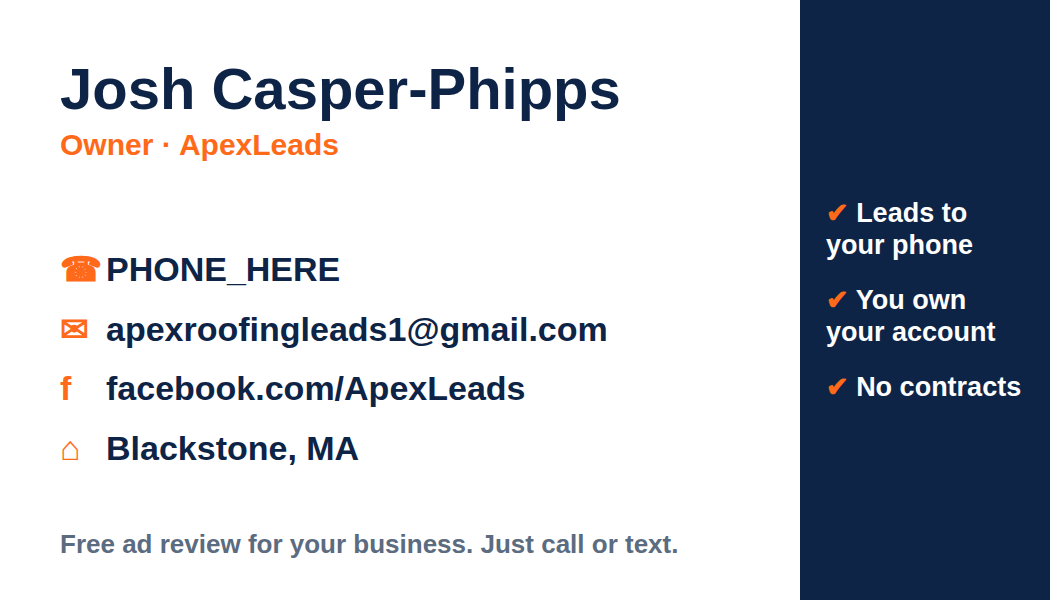
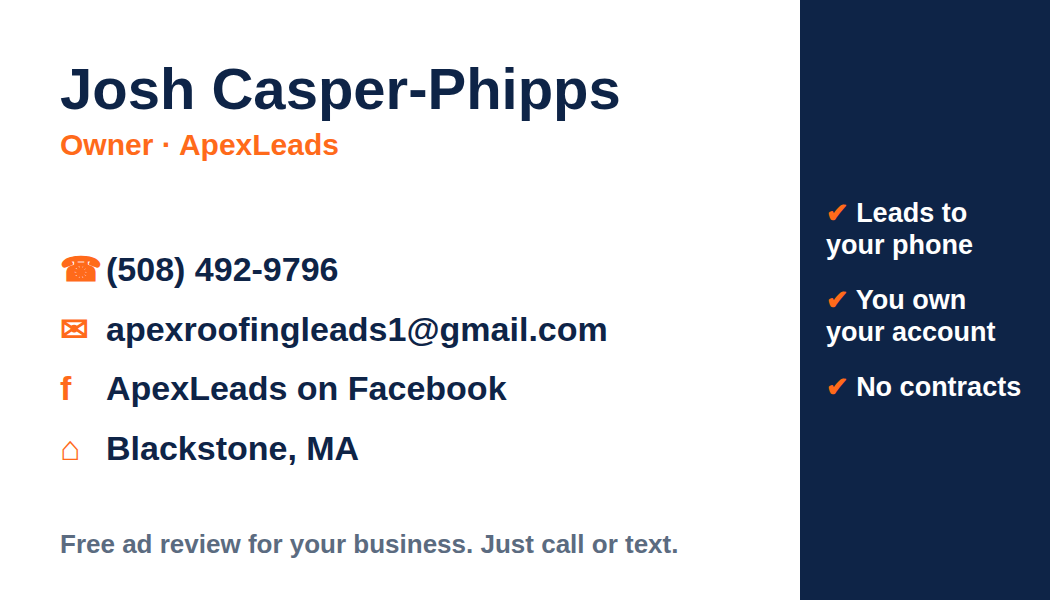
Add business phone to cards, website, service sheet and kit docs
Claude-Session: https://claude.ai/code/session_01QZNmoLFMQXhEVxVhtHLNXP

Changed region(s): [[0.0914, 0.63, 0.5181, 0.69], [0.0914, 0.42, 0.3352, 0.48]]

diff --git a/ads-agency/website/index.html b/ads-agency/website/index.html
@@ -241,9 +241,10 @@ footer .wrap{display:flex;flex-wrap:wrap;justify-content:space-between;gap:10px}
     <div style="display:grid;gap:16px">
       <span class="label">Free ad review</span>
       <h2>Want to know what's wrong with <em>your</em> ad?</h2>
-      <p>Send us your company name and town. Josh will look at your current Facebook ads and send back what he'd change, usually within 24 hours.</p>
+      <p>Call or text, or send your company name and town. Josh will look at your current Facebook ads and send back what he'd change, usually within 24 hours.</p>
     </div>
     <div class="reach">
+      <div class="row"><span class="k">Call or text</span><span class="v" id="ph">(508) 492-9796</span><button type="button" data-copy="ph">Copy</button></div>
       <div class="row"><span class="k">Email</span><span class="v" id="em">apexroofingleads1@gmail.com</span><button type="button" data-copy="em">Copy</button></div>
       <div class="row"><span class="k">Facebook</span><span class="v">Message the ApexLeads page</span></div>
       <div class="row"><span class="k">Owner</span><span class="v">Josh Casper-Phipps · Blackstone, MA</span></div>
@@ -251,7 +252,7 @@ footer .wrap{display:flex;flex-wrap:wrap;justify-content:space-between;gap:10px}
   </div>
 </section>
 
-<footer><div class="wrap"><span>© 2026 ApexLeads · Blackstone, Massachusetts</span><span>Facebook ads for New England landscaping &amp; tree companies</span></div></footer>
+<footer><div class="wrap"><span>© 2026 ApexLeads · Blackstone, Massachusetts · (508) 492-9796</span><span>Facebook ads for New England landscaping &amp; tree companies</span></div></footer>
 
 <script>
 document.querySelectorAll('[data-copy]').forEach(b=>b.addEventListener('click',()=>{

diff --git a/ads-agency/business-kit/service-sheet.html b/ads-agency/business-kit/service-sheet.html
@@ -21,7 +21,7 @@ li:before{content:"✓  ";color:#1e8a4c;font-weight:800}
 .p .a small{font-size:22px;color:#57627a}
 .p .l{font-size:21px;color:#57627a;margin-top:8px}
 .terms{font-size:23px;color:#57627a;text-align:center;margin-top:14px}
-.foot{position:absolute;bottom:0;left:0;right:0;background:#0e2447;color:#fff;padding:30px 64px;display:flex;justify-content:space-between;align-items:center;font-size:26px}
+.foot{position:absolute;bottom:0;left:0;right:0;background:#0e2447;color:#fff;padding:30px 64px;display:flex;justify-content:space-between;align-items:center;font-size:25px}
 .foot b{color:#ff6a1a}
 </style>
 <div class="top">
@@ -44,4 +44,4 @@ li:before{content:"✓  ";color:#1e8a4c;font-weight:800}
     </div>
     <p class="terms">Month to month · No setup fee · You own your page &amp; ad account · Ad spend paid by you to Facebook</p></div>
 </div>
-<div class="foot"><span><b>Josh Casper-Phipps</b> · Blackstone, MA</span><span>apexroofingleads1@gmail.com</span></div>
+<div class="foot"><span><b>Josh Casper-Phipps</b> · Blackstone, MA</span><span><b>(508) 492-9796</b> · apexroofingleads1@gmail.com</span></div>

diff --git a/ads-agency/business-cards/cards.html b/ads-agency/business-cards/cards.html
@@ -26,9 +26,9 @@
 <div class="card back" id="back">
   <div class="top"><div class="name">Josh Casper-Phipps</div><div class="role">Owner · ApexLeads</div></div>
   <div class="info">
-    <div><span>☎</span>PHONE_HERE</div>
+    <div><span>☎</span>(508) 492-9796</div>
     <div><span>✉</span>apexroofingleads1@gmail.com</div>
-    <div><span>f</span>facebook.com/ApexLeads</div>
+    <div><span>f</span>ApexLeads on Facebook</div>
     <div><span>⌂</span>Blackstone, MA</div>
   </div>
   <div class="tag">Free ad review for your business. Just call or text.</div>

diff --git a/ads-agency/business-kit/1-business-setup-checklist.md b/ads-agency/business-kit/1-business-setup-checklist.md
@@ -3,7 +3,7 @@
 Do these in order. Most cost little or nothing. Check prices on the official sites before paying, because fees change.
 
 ## Week 1 (free or close to free)
-- [ ] **Business phone number:** get a free Google Voice number (voice.google.com). Put it on your cards, website, Facebook page and sheet. Keeps your personal cell private.
+- [x] **Business phone number:** (508) 492-9796 (now on your cards, website and service sheet). Add it to your Facebook page too.
 - [ ] **Business email:** keep apexroofingleads1@gmail.com for now. Once you buy a domain, switch to an address like josh@[yourdomain], since "roofing" in the current address doesn't match landscaping.
 - [ ] **Facebook page:** finish the About section, add the phone number and service area, set the profile picture to the logo and the cover photo to the service sheet.
 - [ ] **Facebook ad account appeal:** see `3-email-signature-and-appeal.md`.

diff --git a/ads-agency/business-kit/3-email-signature-and-appeal.md b/ads-agency/business-kit/3-email-signature-and-appeal.md
@@ -6,7 +6,7 @@ In Gmail: **Settings (gear) → See all settings → General → Signature → C
 ```
 Josh Casper-Phipps
 ApexLeads · Facebook ads for New England landscapers
-[business phone] · apexroofingleads1@gmail.com
+(508) 492-9796 · apexroofingleads1@gmail.com
 Blackstone, MA
 ```
 

diff --git a/ads-agency/business-kit/2-proposal-and-invoice-templates.md b/ads-agency/business-kit/2-proposal-and-invoice-templates.md
@@ -43,7 +43,7 @@ Josh
 
 **ApexLeads**
 Josh Casper-Phipps · Blackstone, MA
-apexroofingleads1@gmail.com · [business phone]
+apexroofingleads1@gmail.com · (508) 492-9796
 
 **INVOICE #** [AL-2026-001]
 **Date:** [date] **Due:** [date + 7 days]
